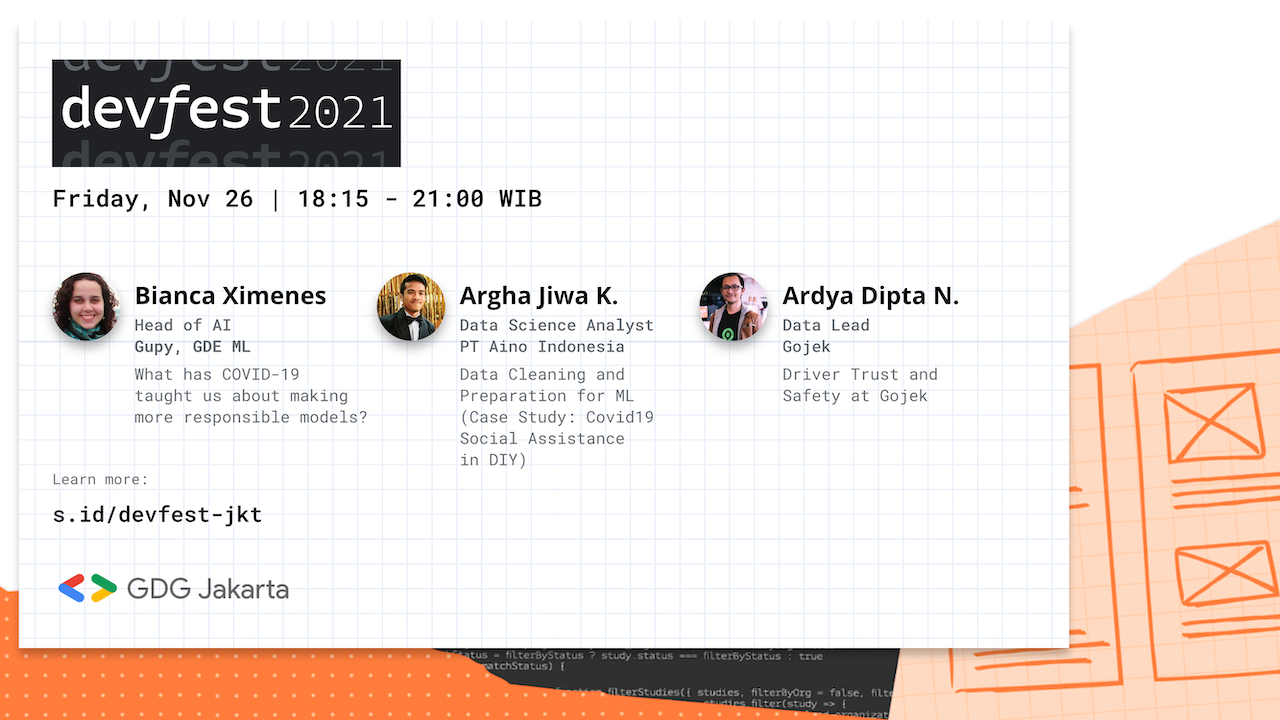
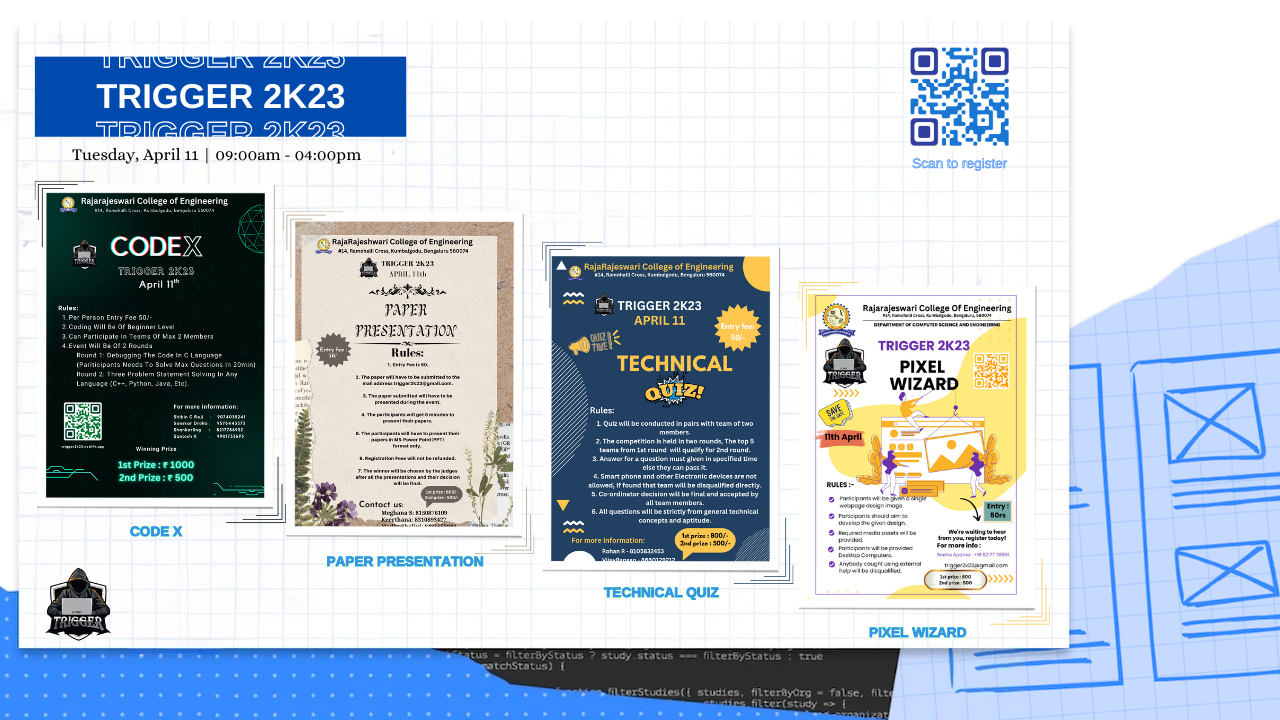
deploy 12

diff --git a/src/data/organizers.js b/src/data/organizers.js
@@ -4,7 +4,7 @@ export const ORGANIZERS_DATA = [
 		event_role: "Publisher",
 		professional_role: "Main Co-ordinator",
 		institution: "CSE, RRCE",
-		avatar_url: require("../assets/images/organizers/sowmya.jpeg")
+		avatar_url: require("../assets/images/organizers/sowmya.jpg")
 			.default,
 		social_media: {
 			linkedin: "https://www.linkedin.com/in/sowmya-mn-a69261246/",
@@ -125,10 +125,21 @@ export const ORGANIZERS_DATA = [
 		event_role: "Codex Co-ordinator",
 		professional_role: "CodeX Co-ordinator",
 		institution: "CSE, RRCE",
-		// avatar_url: require("../assets/images/organizers/shankarling.jpg")
-		// 	.default,
+		avatar_url: require("../assets/images/organizers/shankarling.jpg")
+			.default,
 		social_media: {
-			linkedin: "https://www.linkedin.com/in/sanskardrolia",
+			linkedin: "https://www.linkedin.com/in/shankarling-kalashetty-b59149204/",
+		},
+	},
+	{
+		name: "Santosh K",
+		event_role: "Codex Co-ordinator",
+		professional_role: "CodeX Co-ordinator",
+		institution: "CSE, RRCE",
+		avatar_url: require("../assets/images/organizers/santhosh.jpg")
+			.default,
+		social_media: {
+			linkedin: "https://www.linkedin.com/in/santoshk132",
 		},
 	},
 	{
@@ -162,6 +173,17 @@ export const ORGANIZERS_DATA = [
 			.default,
 		social_media: {
 			linkedin: "https://www.linkedin.com/in/samyuktha-s-701235239/",
+		},
+	},
+	{
+		name: "Sneha N V",
+		event_role: "Pixel Wizard Co-ordinator",
+		professional_role: "Pixel Wizard Co-ordinator",
+		institution: "CSE, RRCE",
+		avatar_url: require("../assets/images/organizers/snehanv.jpg")
+			.default,
+		social_media: {
+			linkedin: "https://www.linkedin.com/in/sneha-n-v-naik-172ab6246/",
 		},
 	},
 	{
@@ -275,6 +297,17 @@ export const ORGANIZERS_DATA = [
 		},
 	},
 	{
+		name: "Jeevan Y",
+		event_role: "Golden Minutes Co-ordinator",
+		professional_role: "Golden Minutes Co-ordinator",
+		institution: "CSE, RRCE",
+		avatar_url: require("../assets/images/organizers/jeevan.jpg")
+			.default,
+		social_media: {
+			linkedin: "",
+		},
+	},
+	{
 		name: "Alisha S",
 		event_role: "Golden Minutes Co-ordinator",
 		professional_role: "Golden Minutes Co-ordinator",
@@ -313,6 +346,28 @@ export const ORGANIZERS_DATA = [
 		professional_role: "BGMI Co-ordinator",
 		institution: "CSE, RRCE",
 		avatar_url: require("../assets/images/organizers/srihari.jpg")
+			.default,
+		social_media: {
+			linkedin: "",
+		},
+	},
+	{
+		name: "Sahana Raja",
+		event_role: "BGMI Co-ordinator",
+		professional_role: "Shout in silence Co-ordinator",
+		institution: "CSE, RRCE",
+		avatar_url: require("../assets/images/organizers/sahana.jpg")
+			.default,
+		social_media: {
+			linkedin: "",
+		},
+	},
+	{
+		name: "Shobha Gowda",
+		event_role: "BGMI Co-ordinator",
+		professional_role: "Shout in silence Co-ordinator",
+		institution: "CSE, RRCE",
+		avatar_url: require("../assets/images/organizers/shoba.jpeg")
 			.default,
 		social_media: {
 			linkedin: "",

diff --git a/public/index.html b/public/index.html
@@ -9,19 +9,19 @@
   <meta name="description"
     content="DevFest 2021 inspires local developers to learn and connect as a community by exploring how to use Google technology to accelerate economic impact. Developers from all around the world join their local Google Developer Group chapters for their largest annual event." />
   <link rel="apple-touch-icon" href="%PUBLIC_URL%/logo400.png" />
-  <meta data-n-head="ssr" data-hid="og:image" name="og:image" property="og:image"
-    content="https://developers.google.com/community/gdg/images/stories/devfest-logo_1440.jpg">
-  <meta data-n-head="ssr" data-hid="og:url" name="og:url" property="og:url"
-    content="https://devfest2021-jakarta.web.app/">
+  <!-- <meta data-n-head="ssr" data-hid="og:image" name="og:image" property="og:image"
+    content="https://developers.google.com/community/gdg/images/stories/devfest-logo_1440.jpg"> -->
+  <!-- <meta data-n-head="ssr" data-hid="og:url" name="og:url" property="og:url"
+    content="https://devfest2021-jakarta.web.app/"> -->
   <meta data-n-head="ssr" data-hid="og:type" name="og:type" property="og:type" content="website">
   <meta data-n-head="ssr" data-hid="og:title" name="og:title" property="og:title" content="TRIGGER 2K23">
-  <meta data-n-head="ssr" data-hid="og:site_name" name="og:site_name" property="og:site_name"
-    content="DevFest Indonesia 2020 | GDG Indonesia">
-  <meta data-n-head="ssr" data-hid="og:description" name="og:description" property="og:description"
-    content="DevFest 2021 inspires local developers to learn and connect as a community by exploring how to use Google technology to accelerate economic impact. Developers from all around the world join their local Google Developer Group chapters for their largest annual event.">
+  <!-- <meta data-n-head="ssr" data-hid="og:site_name" name="og:site_name" property="og:site_name"
+    content="DevFest Indonesia 2020 | GDG Indonesia"> -->
+  <!-- <meta data-n-head="ssr" data-hid="og:description" name="og:description" property="og:description"
+    content="DevFest 2021 inspires local developers to learn and connect as a community by exploring how to use Google technology to accelerate economic impact. Developers from all around the world join their local Google Developer Group chapters for their largest annual event."> -->
   <meta data-n-head="ssr" data-hid="mobile-web-app-capable" name="mobile-web-app-capable" content="yes">
-  <meta data-n-head="ssr" data-hid="apple-mobile-web-app-title" name="apple-mobile-web-app-title"
-    content="devfest-2021-jakarta">
+  <!-- <meta data-n-head="ssr" data-hid="apple-mobile-web-app-title" name="apple-mobile-web-app-title"
+    content="devfest-2021-jakarta"> -->
   <!--
       manifest.json provides metadata used when your web app is installed on a
       user's mobile device or desktop. See https://developers.google.com/web/fundamentals/web-app-manifest/

diff --git a/src/data/speakers.js b/src/data/speakers.js
@@ -1,13 +1,35 @@
 export const SPEAKERS_DATA = [
 	{
-		name: "Dr. Rathymol K.R",
-		topic: "-",
-		avatar_url: require("../assets/images/speakers/rathymol.jpg").default,
-		institution: "DRDO ",
-		roles: "Scientist",
+		name: "Dr. A.C.Shanmugam",
+		topic: "Chief Patron",
+		avatar_url: require("../assets/images/speakers/chairman.jpg").default,
+		institution: "RRGI",
+		roles: "Founder Chancellor & Chairman",
 		featured_speaker: true,
 		social_media: {
-			 linkedin: "https://www.linkedin.com/in/ardyadipta",
+			 linkedin: "",
+		},
+	},
+	{
+		name: "Sri. A.C.S Arun Kumar",
+		topic: "Co-Patron",
+		avatar_url: require("../assets/images/speakers/vc.jpg").default,
+		institution: "RRGI",
+		roles: "President",
+		featured_speaker: true,
+		social_media: {
+			 linkedin: "",
+		},
+	},
+	{
+		name: "Mrs. Rathymol K. R",
+		topic: "Chief Guest",
+		avatar_url: require("../assets/images/speakers/rathymol.jpg").default,
+		institution: "DRDO ",
+		roles: "Senior Scientist",
+		featured_speaker: true,
+		social_media: {
+			 linkedin: "",
 		},
 	},
 	// {

diff --git a/src/pages/Home.jsx b/src/pages/Home.jsx
@@ -30,14 +30,12 @@ export const Home = () => {
 					<div className="space-y-3">
 						<h1 className="text-4xl text-blue-700 font-semibold">Speakers</h1>
 						<p className="text-lg text-gray-500">
-							Our speakers are influential folks & allies who have been
-							associated with communities within their organisations, cities,
-							country and beyond.
+						Join us in the company of notable dignitaries, renowned chief guest and respected college authorities, as we celebrate the spirit of learning and knowledge at our college event.
 						</p>
 					</div>
 					<SpeakersSection featured />
 
-					{/* <div className="flex items-center justify-start">
+					<div className="flex items-center justify-start">
 							<Link
 								className="group transition-all px-5 py-2 text-blue-700 rounded-md flex items-center space-x-5 hover:bg-gray-50"
 								to={ROUTES.SPEAKERS}
@@ -47,7 +45,7 @@ export const Home = () => {
 									<FiChevronRight />
 								</span>
 							</Link>
-						</div> */}
+						</div>
 				</Container>
 			</section>
 

diff --git a/src/components/sections/About.jsx b/src/components/sections/About.jsx
@@ -61,7 +61,7 @@ export const About = () => {
 						</a>
 						<a
 							className="w-full md:w-auto border-blue-700 border inline-flex items-center justify-center rounded-full px-6 py-3 text-sm text-blue-700 space-x-3 transition-all hover:bg-gray-50 hover:px-8"
-							href="https://gdg.community.dev/devfest/"
+							href="https://www.instagram.com/p/CqfPDD8r5AZ/?igshid=MDJmNzVkMjY="
 							target="_blank"
 							rel="noreferrer"
 						>
@@ -72,7 +72,7 @@ export const About = () => {
 						</a>
 					</div>
 				</div>
-				<div className="w-full">
+				{/* <div className="w-full">
 					<div className="rounded-md overflow-hidden">
 						<ReactPlayer
 							width="100%"
@@ -80,7 +80,7 @@ export const About = () => {
 							controls
 						/>
 					</div>
-				</div>
+				</div> */}
 			</Container>
 		</div>
 	);

diff --git a/src/pages/Speakers.jsx b/src/pages/Speakers.jsx
@@ -14,9 +14,7 @@ export const Speakers = () => {
 					<div className="space-y-5">
 						<h1 className="text-6xl font-bold text-white">Speakers.</h1>
 						<p className="text-xl text-gray-500">
-							Our speakers are influential folks & allies who have been
-							associated with communities within their organisations, cities,
-							country and beyond.
+						Join us in the company of notable dignitaries, renowned chief guest and respected college authorities, as we celebrate the spirit of learning and knowledge at our college event.
 						</p>
 					</div>
 				</Fade>

diff --git a/src/data/schedules.js b/src/data/schedules.js
@@ -29,7 +29,7 @@ export const ScheduleData = [
 				timezone: "UTC/GMT +5:30 hours",
 				title: "CodeX",
 				topic: "Faculty Co-ordinators: Prof. Autin jose ",
-				speaker: "Co-ordinators: Shibin C Reji, Shankarling, Sanskar Drolia, Santhosh K",
+				speaker: "Co-ordinators: Shibin C Reji, Shankarling, Sanskar Drolia, Santosh K",
 				url: "https://forms.gle/G9r2YNorL5c23N887"
 			},
 			{

diff --git a/src/components/sections/Banner.jsx b/src/components/sections/Banner.jsx
@@ -18,7 +18,7 @@ export const Banner = () => {
           style={{ width: '100',height: '100%' }}
         />
       </div>
-      <style>
+      {/* <style>
         {`
         @media screen and (max-width: 636px) {
           div[style] {
@@ -32,7 +32,7 @@ export const Banner = () => {
           }
         }
       `}
-      </style>
+      </style> */}
     </div>
   );
 };

diff --git a/src/components/sections/CTA.jsx b/src/components/sections/CTA.jsx
@@ -19,7 +19,7 @@ export const CTA = () => {
 				<div>
 					<a
 						className="bg-blue-700 hover:bg-blue-800 transition-all px-8 py-3 rounded-md text-white"
-						href="https://gdg.community.dev/devfest/"
+						href="https://www.instagram.com/p/CqfPDD8r5AZ/?igshid=MDJmNzVkMjY="
 						target="_blank"
 						rel="noreferrer"
 					>
